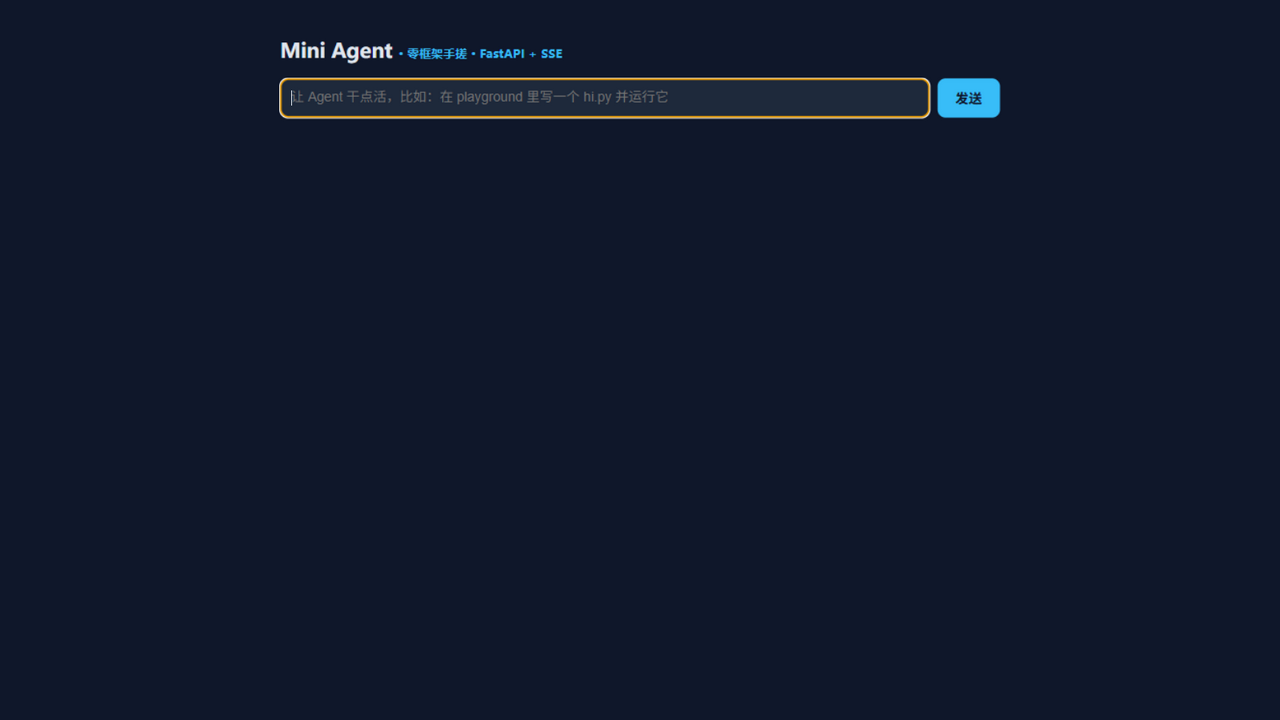
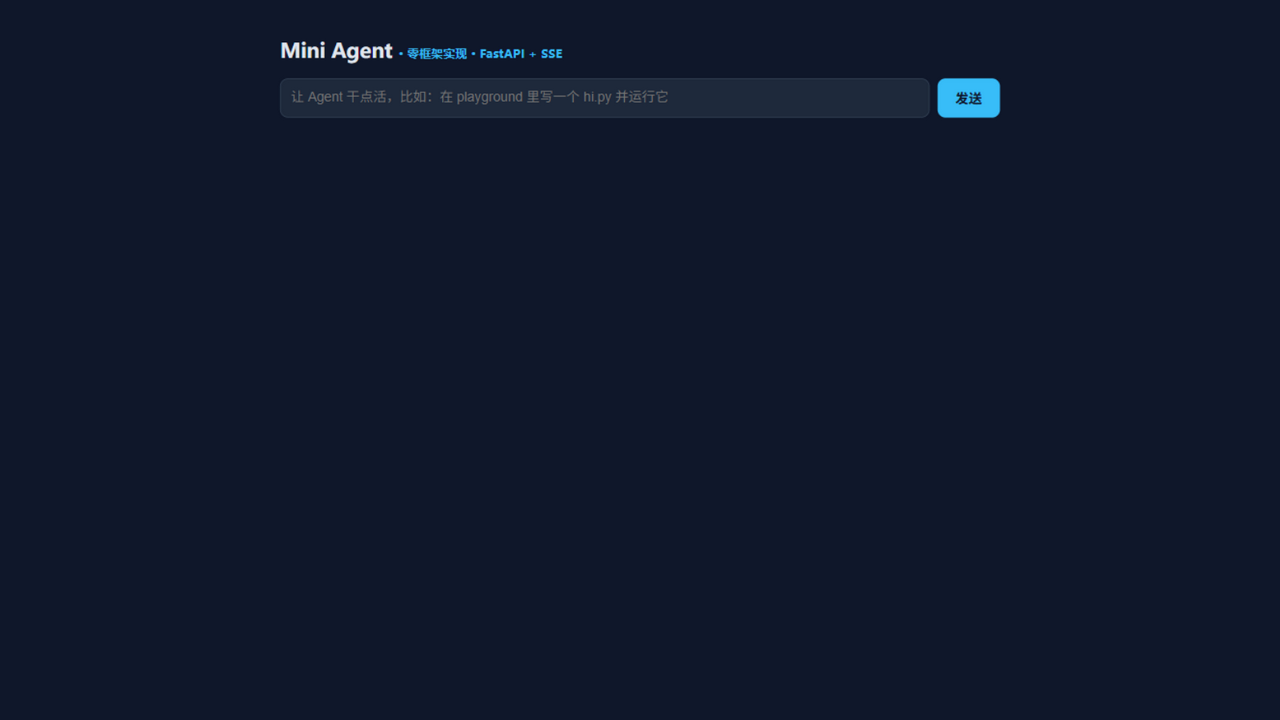
docs: 定位措辞专业化 — 去口语化表述，突出方法论差异化
- 全仓替换口语化措辞为工程表述（零框架·从零实现）
- README 中英双语新增'与框架套壳项目的不同之处'：渐进式可复现路径/评测先行/协议双端/优雅降级/数据驱动设计
- Web UI 标题与 FastAPI 描述同步更新，主视觉截图重拍
- .gitignore 排除 .kilo/ IDE 工作树

Changed region(s): [[0.2188, 0.0611, 0.7188, 0.1222], [0.2188, 0.1528, 0.7188, 0.1833]]

diff --git a/step26_api.py b/step26_api.py
@@ -233,7 +233,7 @@ def run_agent(question, max_steps=MAX_STEPS):
 
 
 # ---------- FastAPI 应用 ----------
-app = FastAPI(title="Mini Agent API", description="零框架手搓 Agent 的产品化外壳")
+app = FastAPI(title="Mini Agent API", description="零框架 LLM Agent 的产品化服务层")
 
 
 class ChatIn(BaseModel):
@@ -273,7 +273,7 @@ CHAT_HTML = """<!DOCTYPE html>
   button{padding:10px 18px;border-radius:8px;border:0;background:#38bdf8;
          color:#0f172a;font-weight:bold;cursor:pointer}
 </style></head><body>
-<h1>Mini Agent <span>· 零框架手搓 · FastAPI + SSE</span></h1>
+<h1>Mini Agent <span>· 零框架实现 · FastAPI + SSE</span></h1>
 <div id="log"></div>
 <form onsubmit="send();return false">
   <input id="q" placeholder="让 Agent 干点活，比如：在 playground 里写一个 hi.py 并运行它" autofocus>

diff --git a/README.md b/README.md
@@ -2,7 +2,7 @@
 
 # Mini Agent
 
-**零框架从零手搓的 LLM Agent —— 从第一次 LLM 调用到完整产品化 Runtime 的 26 个渐进模块**
+**零框架 · 从零实现的 LLM Agent —— 26 个可独立运行的渐进模块，覆盖从第一次 LLM 调用到流式产品化服务**
 
 *A from-scratch LLM Agent in 26 progressive modules — no agent framework, only the official OpenAI client.*
 
@@ -20,10 +20,10 @@
 
 ---
 
-## 为什么从零手搓
+## 为什么从零实现
 
-框架（LangChain / LlamaIndex…）把决策藏了起来：**用它们的人知道怎么调，手写过的人知道为什么。**
-本项目从 `hello LLM` 开始，把 Agent 的每一个零件亲手造一遍——循环、工具、记忆、压缩、重试、
+框架（LangChain / LlamaIndex…）把决策藏了起来：**用它们的人知道怎么调，从零实现的人知道为什么。**
+本项目从 `hello LLM` 开始，逐层实现 Agent 的每一个零件——循环、工具、记忆、压缩、重试、
 多智能体、权限、注册表——最后补上产品化三件套（RAG / MCP / 流式 API），总装成一个能部署的完整 Agent。
 
 ```text
@@ -40,6 +40,14 @@ Mini Agent Runtime
 ├── 协议层：MCP 客户端 + 服务端，JSON-RPC 2.0 over stdio（step25 / mini_mcp_server）
 └── 产品层：FastAPI + SSE 流式 + Web 聊天界面 + Docker（step26）
 ```
+
+**与常见"框架套壳"项目的不同之处：**
+
+- **渐进式可复现路径** —— 26 个模块各自独立运行、独立验证，从 hello-LLM 逐层叠加到产品化服务：不是 Notebook 玩具合集，而是一条可 review、可回归的工程路径
+- **评测先行** —— 固定考卷 + 15 个离线单元测试 + CI，任何改动先跑分再合并
+- **协议双端实现** —— 不只调用 MCP，而是亲手实现 MCP 服务端与客户端（JSON-RPC 2.0 over stdio）
+- **优雅降级贯穿全局** —— Embedding 离线兜底、指数退避重试、SSE `error` 事件礼貌失败
+- **设计决策用数字说话** —— 压缩 98.3%、并行提速 29%、退避 2→4s，详见[架构文档](docs/ARCHITECTURE.md)
 
 ## ✨ 特性总览
 
@@ -213,7 +221,7 @@ MCP 协议分发（握手/菜单/调用/未知工具优雅拒绝）。
 
 ## 🗺 Roadmap
 
-- [ ] 用 LangGraph 复写核心 Loop，与手搓版逐模块对照
+- [ ] 用 LangGraph 复写核心 Loop，与从零实现版逐模块对照
 - [ ] 向量库升级：Chroma / Milvus 接入
 - [ ] AgentLab：考卷数据集 + 运行器 + 判分器 + 报告器的完整评测平台
 - [ ] 多模态工具（截图理解）

diff --git a/README_EN.md b/README_EN.md
@@ -4,7 +4,7 @@
 
 **A from-scratch LLM Agent in 26 progressive modules — no agent framework, only the official OpenAI client.**
 
-*零框架从零手搓的 LLM Agent —— 从第一次 LLM 调用到完整产品化 Runtime 的 26 个渐进模块。*
+*零框架 · 从零实现的 LLM Agent —— 26 个可独立运行的渐进模块，覆盖从第一次 LLM 调用到流式产品化服务。*
 
 [简体中文](README.md) | English
 
@@ -23,9 +23,17 @@
 ## Why from scratch?
 
 Frameworks (LangChain, LlamaIndex, …) hide the decisions: **users of a framework know how
-to call it; people who built one from scratch know why.** This project hand-builds every
+to call it; people who build one from scratch know why.** This project implements every
 part of an agent — the loop, tools, memory, compaction, retries, multi-agent, permissions,
 registry — then adds the production layer (RAG / MCP / streaming API) on top.
+
+**What sets it apart from typical "framework wrapper" projects:**
+
+- **Progressive & reproducible** — 26 standalone, individually runnable modules, layering from hello-LLM to a streaming service: a reviewable engineering path, not a notebook toy
+- **Evaluation-first** — fixed test set + 15 offline unit tests + CI; every change is scored before merge
+- **Protocol, both ends** — implements an MCP server *and* client (JSON-RPC 2.0 over stdio), not just a consumer
+- **Graceful degradation everywhere** — offline embedding fallback, exponential backoff, SSE `error` events
+- **Decisions backed by numbers** — 98.3% compaction, 29% parallel speedup; see [ARCHITECTURE](docs/ARCHITECTURE.md)
 
 ```text
 Mini Agent Runtime
